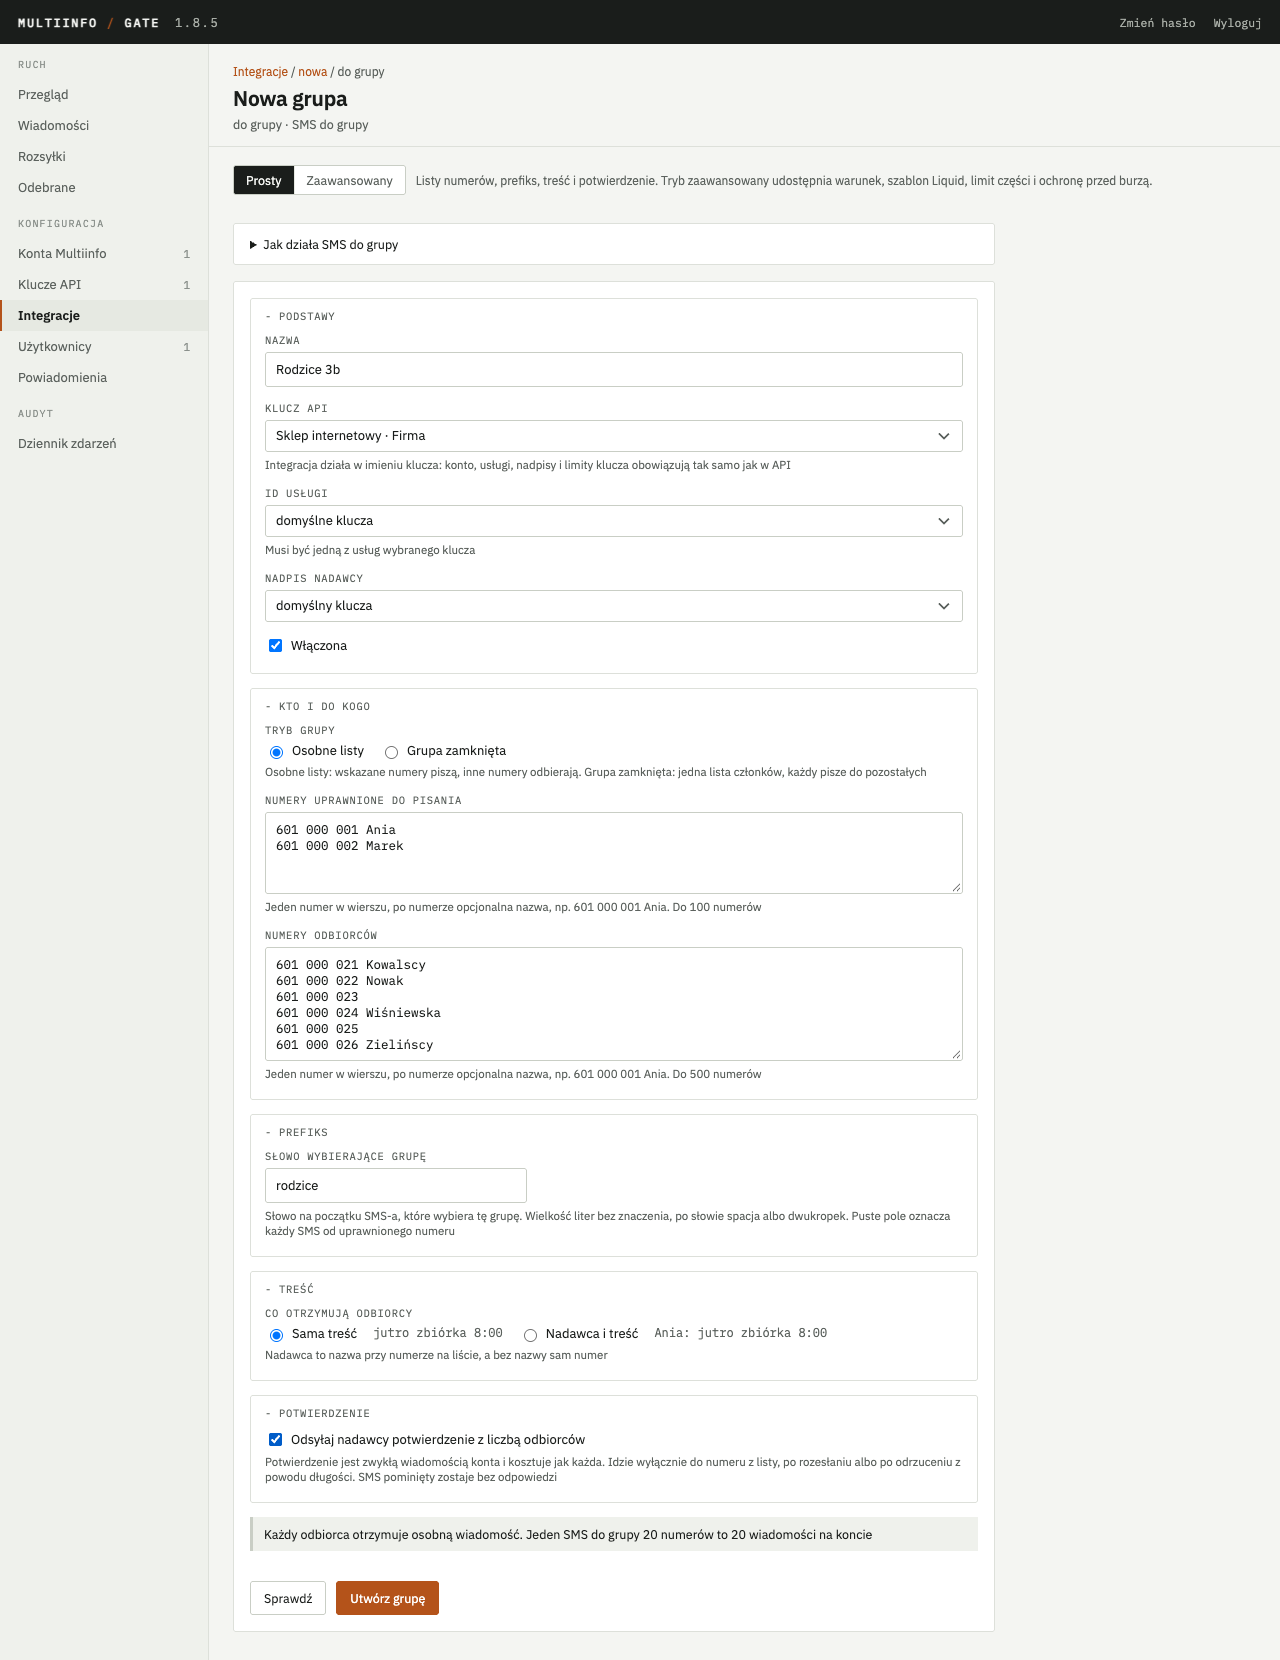
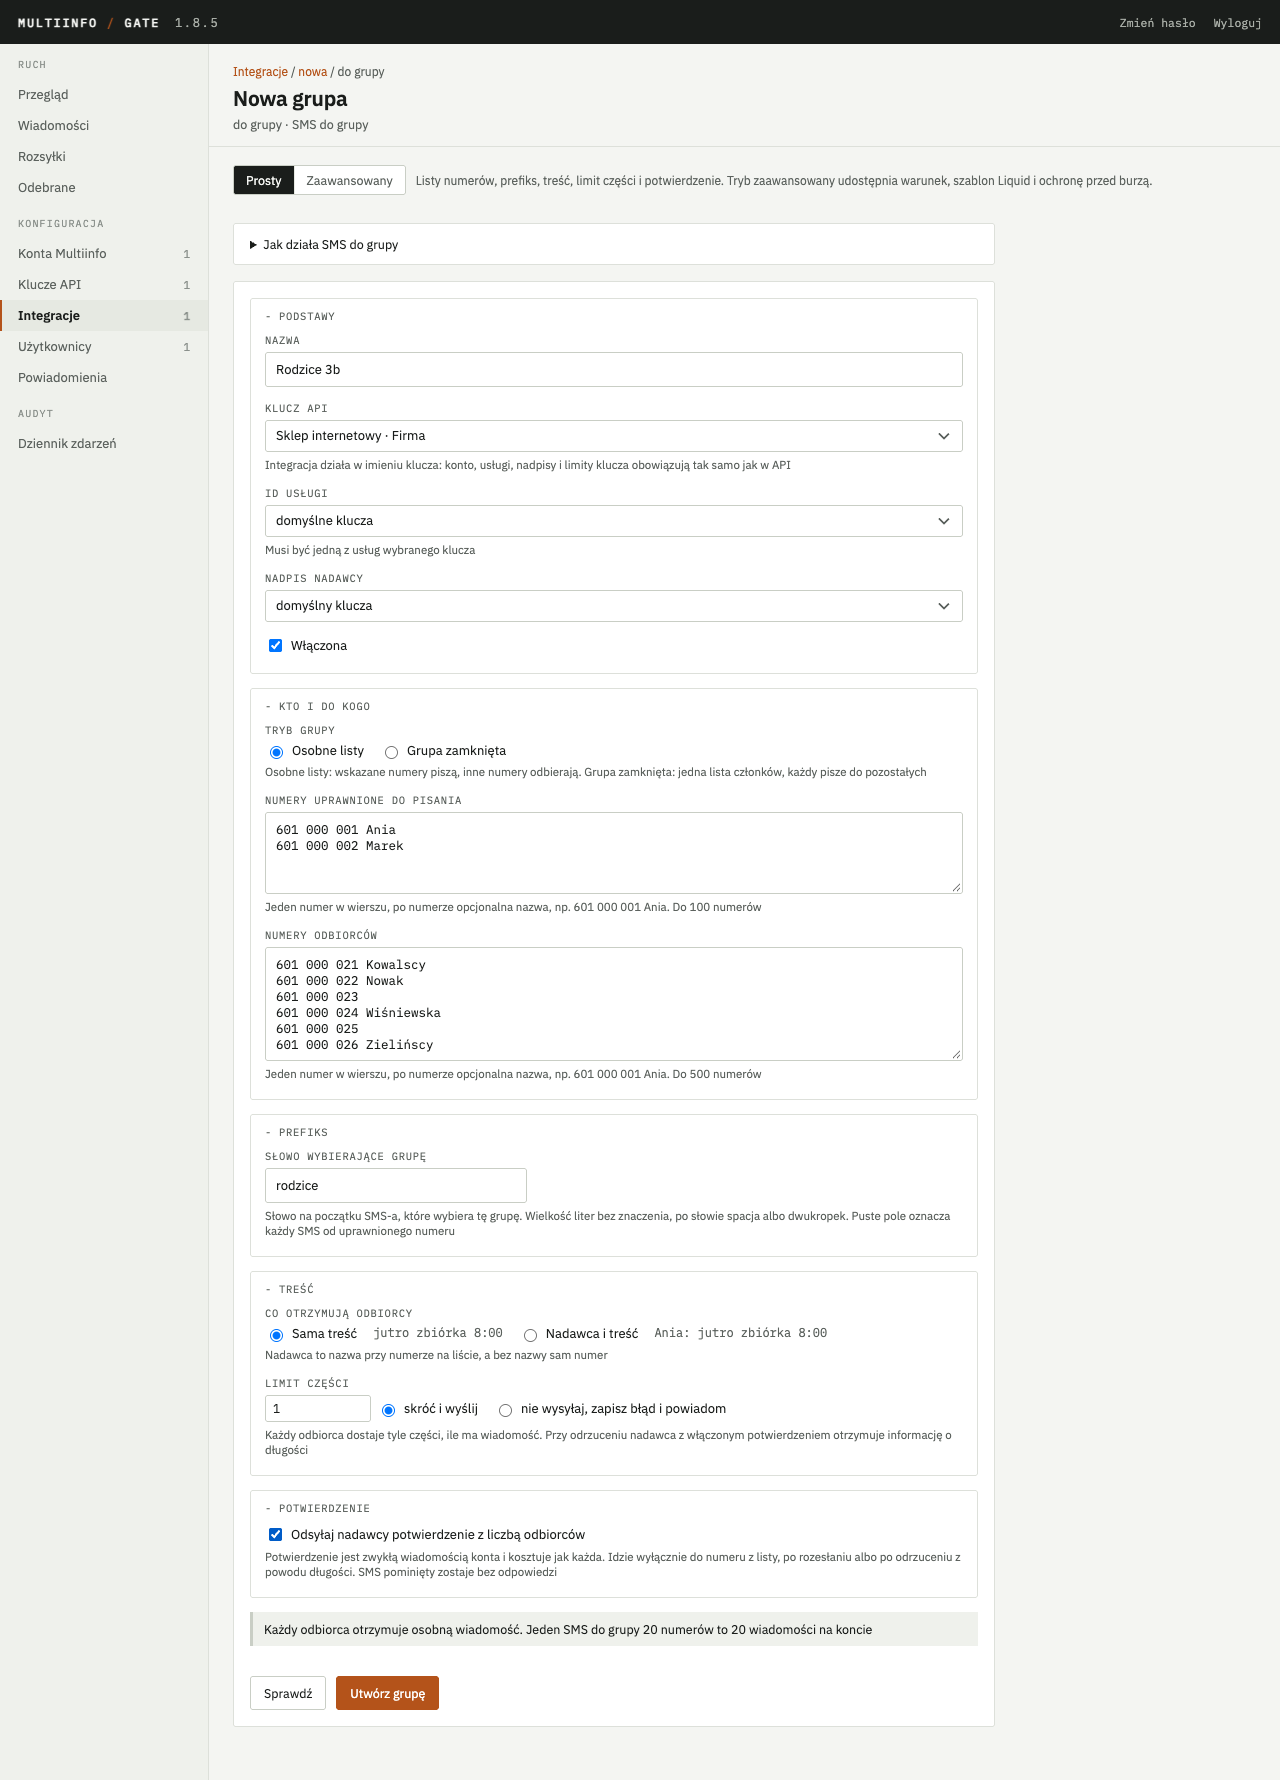
SMS do grupy: limit części w formularzu prostym, test nadawcy na liście odbiorców

diff --git a/test/admin/integrations-group.test.ts b/test/admin/integrations-group.test.ts
@@ -40,7 +40,7 @@ describe('formularz SMS do grupy', () => {
     const res = await get(redirect.headers.location as string);
     expect(res.statusCode).toBe(200);
     const form = res.body;
-    for (const t of ['Numery uprawnione do pisania', 'Numery odbiorców', 'Numery członków', 'Prefiks', 'Sama treść', 'Nadawca i treść', 'Odsyłaj nadawcy potwierdzenie', 'data-show="mode=lists"', 'data-show="mode=closed"', 'Osobne listy', 'Grupa zamknięta', '20 numerów to 20 wiadomości', 'Utwórz grupę', 'name="kind" value="sms_group"']) expect(form).toContain(t);
+    for (const t of ['Numery uprawnione do pisania', 'Numery odbiorców', 'Numery członków', 'Prefiks', 'Sama treść', 'Nadawca i treść', 'Odsyłaj nadawcy potwierdzenie', 'data-show="mode=lists"', 'data-show="mode=closed"', 'Osobne listy', 'Grupa zamknięta', '20 numerów to 20 wiadomości', 'Utwórz grupę', 'name="kind" value="sms_group"', 'Limit części', 'name="overflow" value="reject"']) expect(form).toContain(t);
     expect(form).not.toContain('Szablon Liquid');
     expect(form).not.toContain('Limit burzy');
     const adv = (await get('/integracje/nowa?rodzaj=sms_group&ustawienie=sms-grupa&tryb=zaawansowany')).body;
@@ -109,14 +109,22 @@ describe('formularz SMS do grupy', () => {
     expect(closedDetail).toContain('grupa zamknięta: 2 członków');
     expect(closedDetail).toContain('Grupa Zespół zapisana.');
   });
-  it('edycja grupy z Liquidem albo odrzucaniem nadmiaru otwiera się zaawansowana z wyjaśnieniem', async () => {
+  it('edycja grupy z Liquidem otwiera się zaawansowana z wyjaśnieniem; odrzucanie nadmiaru zostaje w prostym', async () => {
     const id = h.integrations.insert({
       name: 'Rodzice', kind: 'sms_group', apiKeyId, serviceId: null, orig: null, preset: 'sms-grupa', enabled: 1,
-      config: { ...defaultSmsGroupConfig(), senders: [{ phone: '48601000001', name: '' }], recipients: ['48601000002'], overflow: 'reject' }, secrets: {}, storePayloads: 0, createdAt: NOW,
+      config: { ...defaultSmsGroupConfig(), senders: [{ phone: '48601000001', name: '' }], recipients: ['48601000002'], overflow: 'reject', text: { mode: 'liquid', template: '{{ body }}' } }, secrets: {}, storePayloads: 0, createdAt: NOW,
     });
     const edit = (await get(`/integracje/${id}/edytuj`)).body;
     expect(edit).toContain('otwiera się w trybie zaawansowanym');
     expect(edit).toContain('Szablon Liquid');
+    const plain = h.integrations.insert({
+      name: 'Prosta', kind: 'sms_group', apiKeyId, serviceId: null, orig: null, preset: 'sms-grupa', enabled: 1,
+      config: { ...defaultSmsGroupConfig(), senders: [{ phone: '48601000001', name: '' }], recipients: ['48601000002'], overflow: 'reject', maxParts: 3 }, secrets: {}, storePayloads: 0, createdAt: NOW,
+    });
+    const simple = (await get(`/integracje/${plain}/edytuj`)).body;
+    expect(simple).not.toContain('otwiera się w trybie zaawansowanym');
+    expect(simple).toContain('name="maxParts" type="number" min="1" max="9" value="3"');
+    expect(simple).toContain('name="overflow" value="reject" checked');
     const detail = (await get(`/integracje/${id}`)).body;
     expect(detail).toContain('bez prefiksu: każdy SMS od uprawnionego numeru');
     expect(detail).toContain('nadmiar: odrzucenie');

diff --git a/src/admin/views/integration-group.ts b/src/admin/views/integration-group.ts
@@ -23,8 +23,8 @@ function modeSwitch(ctx: FormContext, mode: 'prosty' | 'zaawansowany'): string {
       <a href="${esc(`${base}${join}tryb=zaawansowany`)}"${mode === 'zaawansowany' ? ' class="on"' : ''}>Zaawansowany</a>
     </div>
     <span class="dim" style="font-size: 12px;">${mode === 'prosty'
-      ? 'Listy numerów, prefiks, treść i potwierdzenie. Tryb zaawansowany udostępnia warunek, szablon Liquid, limit części i ochronę przed burzą.'
-      : 'Warunek, szablon Liquid, limit części, ochrona przed burzą, dziennik i próbka.'}</span>
+      ? 'Listy numerów, prefiks, treść, limit części i potwierdzenie. Tryb zaawansowany udostępnia warunek, szablon Liquid i ochronę przed burzą.'
+      : 'Warunek, szablon Liquid, ochrona przed burzą, dziennik i próbka.'}</span>
   </div>`;
 }
 
@@ -86,7 +86,7 @@ function sectionText(v: GroupFormValues, advanced: boolean): string {
       <label for="textTemplate">Szablon Liquid</label>
       ${textarea('textTemplate', v.textTemplate, 3, ' placeholder="{{ sender }} do grupy: {{ body }}"')}
       ${hint('Zmienne: body, prefix, sender, sender_name, recipients, from, to, text, serviceId, receivedAt, id, now, integration.name. Filtr sms_truncate: n skraca do n znaków')}
-    </div>
+    </div>` : ''}
     <div class="field">
       <label>Limit części</label>
       <div class="inline">
@@ -94,7 +94,7 @@ function sectionText(v: GroupFormValues, advanced: boolean): string {
         <div class="choices">${radio('overflow', 'truncate', v.overflow, 'skróć i wyślij')}${radio('overflow', 'reject', v.overflow, 'nie wysyłaj, zapisz błąd i powiadom')}</div>
       </div>
       ${hint('Każdy odbiorca dostaje tyle części, ile ma wiadomość. Przy odrzuceniu nadawca z włączonym potwierdzeniem otrzymuje informację o długości')}
-    </div>` : `<input type="hidden" name="maxParts" value="${esc(v.maxParts)}"><input type="hidden" name="overflow" value="${esc(v.overflow)}">`}
+    </div>
   </details>`;
 }
 

diff --git a/test/admin/group-form.test.ts b/test/admin/group-form.test.ts
@@ -68,11 +68,11 @@ describe('groupConfigToValues i próbka', () => {
 });
 
 describe('groupNeedsAdvanced', () => {
-  it('Liquid, odrzucenie nadmiaru, więcej części albo warunek', () => {
+  it('Liquid albo warunek; limit części i nadmiar są w trybie prostym', () => {
     const d = defaultSmsGroupConfig();
     expect(groupNeedsAdvanced(d)).toBe(false);
-    expect(groupNeedsAdvanced({ ...d, overflow: 'reject' })).toBe(true);
-    expect(groupNeedsAdvanced({ ...d, maxParts: 2 })).toBe(true);
+    expect(groupNeedsAdvanced({ ...d, overflow: 'reject' })).toBe(false);
+    expect(groupNeedsAdvanced({ ...d, maxParts: 2 })).toBe(false);
     expect(groupNeedsAdvanced({ ...d, text: { mode: 'liquid', template: '{{ body }}' } })).toBe(true);
     expect(groupNeedsAdvanced({ ...d, condition: { mode: 'builder', rules: [{ path: 'body', op: 'contains', value: 'x' }] } })).toBe(true);
     expect(groupNeedsAdvanced({ ...d, text: { mode: 'sender_body' }, confirm: { enabled: true } })).toBe(false);

diff --git a/test/integrations/group-pipeline.test.ts b/test/integrations/group-pipeline.test.ts
@@ -108,6 +108,11 @@ describe('runSmsGroup', () => {
     expect(events(alone.id)).toEqual([['skipped', 'brak odbiorców']]);
     expect(allMessages()).toHaveLength(1);
   });
+  it('osobne listy: nadawca wpisany także na listę odbiorców dostaje wiadomość jak każdy odbiorca', () => {
+    const out = runSmsGroup(deps, lists({ recipients: ['48601000001', '48601000002'], confirm: { enabled: true } }), event(), NOW);
+    expect(out).toMatchObject({ kind: 'sent', recipients: ['48601000001', '48601000002'] });
+    expect(allMessages().filter((m) => m.dest === '48601000001').map((m) => m.body).sort()).toEqual(['Wysłano do 2 odbiorców', 'jutro zbiórka 8:00']);
+  });
   it('sender_body bez nazwy na liście podstawia numer', () => {
     const out = runSmsGroup(deps, lists({ senders: [{ phone: '48601000001', name: '' }], text: { mode: 'sender_body' } }), event(), NOW);
     expect(out).toMatchObject({ kind: 'sent', text: '48601000001: jutro zbiórka 8:00' });

diff --git a/src/admin/group-form.ts b/src/admin/group-form.ts
@@ -135,10 +135,10 @@ export function groupFormToConfig(v: GroupFormValues, countryCode: string, engin
   return { ok: true, config };
 }
 
-/** Czy konfiguracja używa pól widocznych tylko w trybie zaawansowanym: warunek, Liquid w treści, odrzucanie nadmiaru, więcej niż jedna część. */
+/** Czy konfiguracja używa pól widocznych tylko w trybie zaawansowanym: warunek albo Liquid w treści. Limit części jest w obu trybach. */
 export function groupNeedsAdvanced(config: SmsGroupConfig): boolean {
   const hasCondition = config.condition.mode === 'liquid' || config.condition.rules.length > 0;
-  return hasCondition || config.text.mode === 'liquid' || config.overflow === 'reject' || config.maxParts !== 1;
+  return hasCondition || config.text.mode === 'liquid';
 }
 
 /**

diff --git a/src/admin/routes/integrations.ts b/src/admin/routes/integrations.ts
@@ -385,7 +385,7 @@ export function registerIntegrationRoutes(app: FastifyInstance, deps: AdminDeps,
   const groupModeOf = (tryb: string | undefined, config: SmsGroupConfig | null): { mode: GroupFormOptions['mode']; note?: string } => {
     if (tryb === 'zaawansowany') return { mode: 'zaawansowany' };
     if (config !== null && groupNeedsAdvanced(config)) {
-      return { mode: 'zaawansowany', note: 'Ta grupa ma ustawienia spoza trybu prostego (warunek, szablon Liquid, limit części albo odrzucanie nadmiaru), dlatego otwiera się w trybie zaawansowanym.' };
+      return { mode: 'zaawansowany', note: 'Ta grupa ma ustawienia spoza trybu prostego (warunek albo szablon Liquid), dlatego otwiera się w trybie zaawansowanym.' };
     }
     return { mode: 'prosty' };
   };

diff --git a/docs/integracje.md b/docs/integracje.md
@@ -936,11 +936,12 @@ ustawienia. Formularz w trybie prostym ma pięć sekcji.
 3. **Prefiks.** Słowo na początku SMS-a, które wybiera tę grupę. Puste pole oznacza każdy SMS
    od uprawnionego numeru. Szczegóły w rozdziale 5a.3.
 4. **Treść.** Dwa warianty z przykładem obok każdego: „Sama treść” albo „Nadawca i treść”.
+   Pod nimi limit części z wyborem, co zrobić z dłuższą wiadomością: skrócić albo nie wysyłać.
    Szczegóły w rozdziale 5a.4.
 5. **Potwierdzenie.** Pole wyboru „Odsyłaj nadawcy potwierdzenie z liczbą odbiorców”. Domyślnie
    wyłączone. Szczegóły w rozdziale 5a.5.
 
-![Formularz SMS do grupy w trybie prostym: tryb grupy, numery uprawnione do pisania z nazwami, numery odbiorców, prefiks, treść i potwierdzenie](obrazki/grupa-formularz.png)
+![Formularz SMS do grupy w trybie prostym: tryb grupy, numery uprawnione do pisania z nazwami, numery odbiorców, prefiks, treść z limitem części i potwierdzenie](obrazki/grupa-formularz.png)
 
 Przycisk **Sprawdź** niczego nie wysyła ani nie zapisuje. Pokazuje, czy nadawca próbki jest na
 liście, czy prefiks pasuje, jaką treść dostaną odbiorcy, listę odbiorców po normalizacji,
@@ -951,9 +952,8 @@ wpisać w sekcji „Próbka do sprawdzenia”.
 ![Podgląd „Sprawdź”: nadawca na liście, prefiks pasuje, treść po zdjęciu prefiksu, odbiorcy, SMS, liczba części i treść potwierdzenia](obrazki/grupa-sprawdz.png)
 
 Tryb zaawansowany dodaje warunek z rozdziału 3.6, szablon Liquid jako trzeci wariant treści,
-limit części z przepełnieniem, ochronę przed burzą, rozmiar dziennika i przechowywanie
-ładunków. Grupa zapisana z tymi ustawieniami otwiera się do edycji od razu w trybie
-zaawansowanym.
+ochronę przed burzą, rozmiar dziennika i przechowywanie ładunków. Grupa zapisana z warunkiem
+albo szablonem Liquid otwiera się do edycji od razu w trybie zaawansowanym.
 
 Druga grupa na tym samym numerze, na przykład rodzice obok dzieci, to druga integracja na tym
 samym kluczu i tej samej usłudze, z innym prefiksem. Jedna grupa ma jeden prefiks.
@@ -990,8 +990,9 @@ numeru idzie do grupy w całości.
 | Nadawca i treść | nazwa nadawcy z listy, dwukropek i reszta; bez nazwy numer nadawcy | `Ania: jutro zbiórka 8:00` |
 | Szablon Liquid | wynik szablonu na zmiennych z rozdziału 6.2, tylko tryb zaawansowany | `{{ sender }} do {{ recipients.size }}: {{ body }}` |
 
-Limit części i przepełnienie działają jak w rozdziale 3.5. Domyślnie jedna część i przycięcie.
-Każdy odbiorca dostaje tyle części, ile ma wiadomość. Przy ustawieniu „nie wysyłaj” SMS ponad
+Limit części i przepełnienie działają jak w rozdziale 3.5 i są dostępne w obu trybach
+formularza. Domyślnie jedna część i przycięcie. Każdy odbiorca dostaje tyle części, ile ma
+wiadomość. Przy ustawieniu „nie wysyłaj” SMS ponad
 limit daje wpis „błąd” w dzienniku, a nadawca z włączonym potwierdzeniem otrzymuje informację
 o długości.
 
